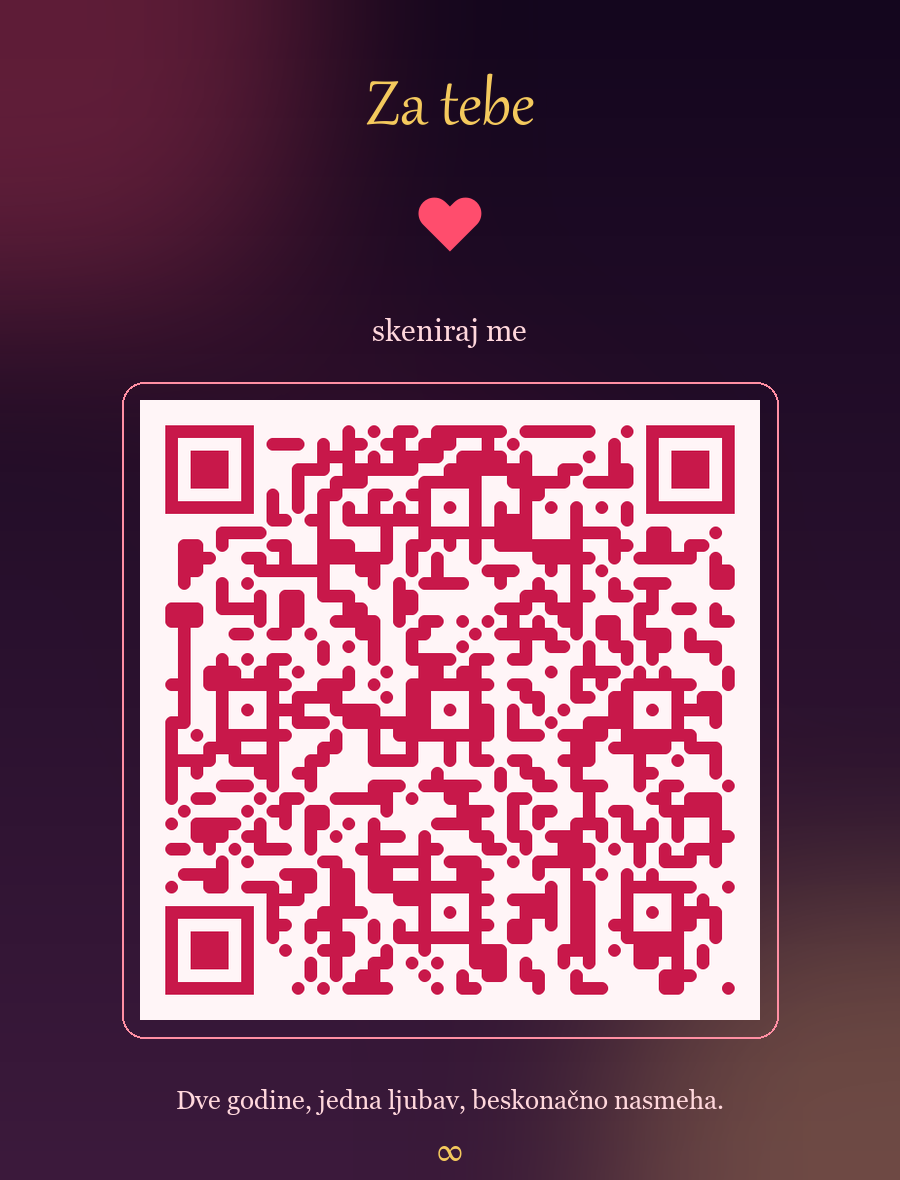
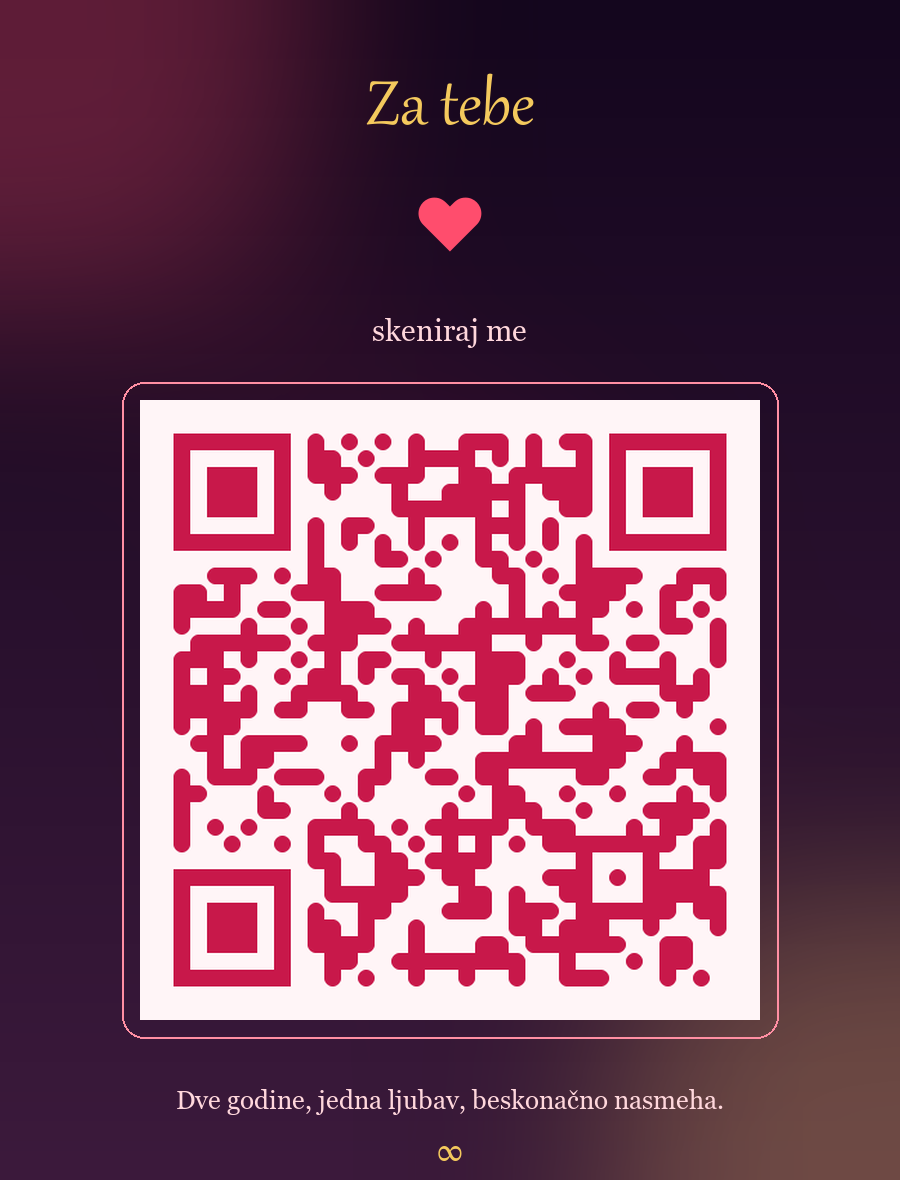
Update QR code for GitHub Pages URL

Changed region(s): [[0.1556, 0.3356, 0.84, 0.8542]]

diff --git a/make_qr.py b/make_qr.py
@@ -8,7 +8,7 @@ from PIL import Image, ImageDraw, ImageFilter, ImageFont
 ErrorCorrect = qrcode.constants.ERROR_CORRECT_H
 LANCZOS = Image.LANCZOS if hasattr(Image, "LANCZOS") else Image.ANTIALIAS
 
-URL = "https://deliver-distributors-travel-faculty.trycloudflare.com"
+URL = "https://zastavaa.github.io/Ivona/"
 OUT = r"D:\Opencode\love\qr-code.png"
 OUT_FRAME = r"D:\Opencode\love\qr-card.png"
 
